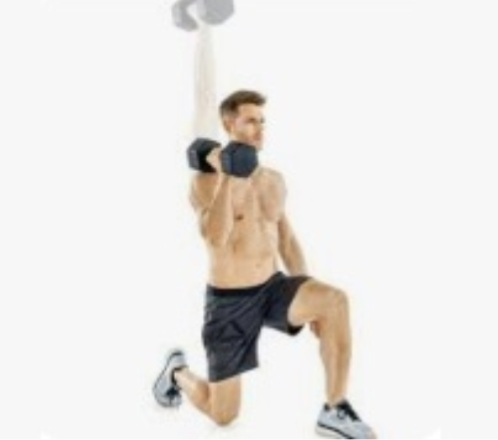
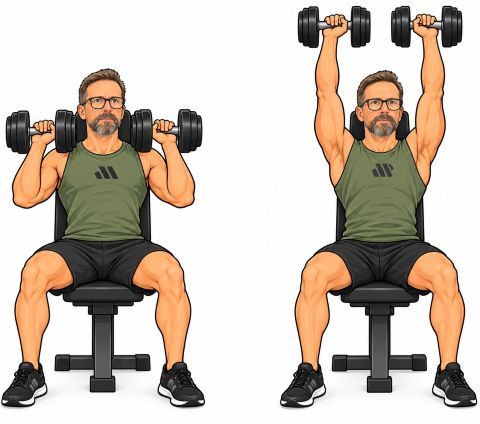
vGPT 1.3.0 add exercise 18 and refresh photos

diff --git a/app.js b/app.js
@@ -5,7 +5,17 @@
 // ---------------------------------------------------------------
 // 0. WERSJA APLIKACJI
 // ---------------------------------------------------------------
-const APP_VERSION = 'vGPT_1.2.1';
+const APP_VERSION = 'vGPT_1.3.0';
+
+// Wersjonowane wyłącznie grafiki podmienione w tej wersji. Dzięki temu PWA
+// pobiera je pod nowym adresem, nawet gdy poprzedni plik był już w cache.
+const VERSIONED_EXERCISE_IMAGE_IDS = new Set([8, 11, 14, 18]);
+
+function getExerciseImageSource(exercise) {
+  const source = exercise?.img || '';
+  if (!source || !VERSIONED_EXERCISE_IMAGE_IDS.has(exercise.id)) return source;
+  return `${source}${source.includes('?') ? '&' : '?'}v=${APP_VERSION}`;
+}
 
 // Lista rzeczy do spakowania
 const PACK_ITEMS = [
@@ -200,7 +210,7 @@ function defaultExercises() {
     { id:14, name:'Ćwiczenie 14',  sets:3, reps:'12',       weight:9     },
     { id:15, name:'Ćwiczenie 15',  sets:2, reps:'8-10',     weight:null  }
   ];
-  return defs.map(e => ({
+  return [...defs.map(e => ({
     id: e.id,
     name: e.name,
     img: `Photos/${e.id}.jpg`,
@@ -212,7 +222,48 @@ function defaultExercises() {
     restTimer: e.id !== 1,
     restSeconds: 60,
     isTime: !!e.isTime
-  }));
+  })), createExercise18()];
+}
+
+function createExercise18() {
+  return {
+    id: 18,
+    name: 'Ćwiczenie 18',
+    img: 'Photos/18.jpg',
+    helperImages: [],
+    sets: 3,
+    reps: '15',
+    weight: null,
+    active: true,
+    restTimer: true,
+    restSeconds: 60,
+    isTime: false
+  };
+}
+
+// Jednorazowo zastępuje porzucone, ręcznie utworzone ćwiczenie 18
+// właściwą definicją z obrazem. Pozostałe ćwiczenia oraz ich kolejność
+// pozostają bez zmian.
+const EXERCISE_18_MIGRATION_VERSION = 'vGPT_1.3.0';
+
+function migrateExercise18(stateToMigrate) {
+  if (!Array.isArray(stateToMigrate.exercises)) return stateToMigrate;
+  if (stateToMigrate.exercise18Migration === EXERCISE_18_MIGRATION_VERSION) {
+    return stateToMigrate;
+  }
+
+  const existingIndex = stateToMigrate.exercises.findIndex(ex => ex.id === 18);
+  if (existingIndex === -1) {
+    stateToMigrate.exercises.push(createExercise18());
+  } else {
+    stateToMigrate.exercises.splice(existingIndex, 1, createExercise18());
+    if (stateToMigrate.current?.sets) delete stateToMigrate.current.sets[18];
+    if (Array.isArray(stateToMigrate.current?.completedExercises)) {
+      stateToMigrate.current.completedExercises = stateToMigrate.current.completedExercises.filter(id => id !== 18);
+    }
+  }
+  stateToMigrate.exercise18Migration = EXERCISE_18_MIGRATION_VERSION;
+  return stateToMigrate;
 }
 
 // Historia z domyślnymi danymi.
@@ -293,7 +344,15 @@ function loadState() {
             if (typeof ex.weight === 'number') ex.weight = `${ex.weight} kg`;
           });
         }
-        return s;
+        const needsExercise18Migration =
+          s.exercise18Migration !== EXERCISE_18_MIGRATION_VERSION &&
+          Array.isArray(s.exercises);
+        const migratedState = migrateExercise18(s);
+        // Zapis od razu sprawia, że porzucone ID 18 jest zastępowane tylko raz.
+        if (needsExercise18Migration) {
+          try { localStorage.setItem(STORAGE_KEY, JSON.stringify(migratedState)); } catch (e) { /* quota? */ }
+        }
+        return migratedState;
       }
     }
     // Migracja ze starej wersji v1 (gdyby ktoś miał)
@@ -302,13 +361,13 @@ function loadState() {
       try {
         const old = JSON.parse(oldRaw);
         if (old && old.history) {
-          return {
+          return migrateExercise18({
             version: STORAGE_VERSION,
             exercises: old.exercises || defaultExercises(),
             history: (old.history || []).map(h => ({ ...h, exported: false })),
             current: old.current || null,
             manualRestSeconds: REST_SECONDS
-          };
+          });
         }
       } catch (e) { /* ignore */ }
     }
@@ -321,6 +380,7 @@ function loadState() {
     packingDate: null,  // ISO date — kiedy ostatnio potwierdzono pakowanie
     goalDays: 3.5,      // cel: co ile dni trening (próg dla kolorów)
     manualRestSeconds: REST_SECONDS,
+    exercise18Migration: EXERCISE_18_MIGRATION_VERSION,
   };
 }
 
@@ -820,7 +880,7 @@ function renderExerciseList() {
 
     li.innerHTML = `
       <div class="exercise-item__thumb">
-        <img src="${ex.img}" alt="" onerror="this.replaceWith(Object.assign(document.createElement('span'),{textContent:'${ex.id}'}))">
+        <img src="${getExerciseImageSource(ex)}" alt="" onerror="this.replaceWith(Object.assign(document.createElement('span'),{textContent:'${ex.id}'}))">
       </div>
       <div class="exercise-item__name">${ex.name}</div>
       <div class="exercise-item__sets">
@@ -875,7 +935,9 @@ function renderExerciseScreen(exId) {
 
   const img = document.getElementById('exerciseImage');
   const fallback = document.getElementById('exerciseImageFallback');
-  img.src = ex.img;
+  const imageWrap = img.closest('.exercise-image-wrap');
+  imageWrap.classList.toggle('exercise-image-wrap--portrait-11', ex.id === 11);
+  img.src = getExerciseImageSource(ex);
   img.classList.remove('hidden');
   fallback.textContent = '';
   img.onerror = () => {
@@ -2430,7 +2492,7 @@ window.addEventListener('appinstalled', () => {
 
 if ('serviceWorker' in navigator) {
   window.addEventListener('load', () => {
-    navigator.serviceWorker.register('sw.js').catch(err => {
+    navigator.serviceWorker.register(`sw.js?v=${APP_VERSION}`).catch(err => {
       console.warn('[SW] rejestracja nieudana:', err);
     });
   });

diff --git a/index.html b/index.html
@@ -13,7 +13,7 @@
   <link rel="preconnect" href="https://fonts.googleapis.com" />
   <link rel="preconnect" href="https://fonts.gstatic.com" crossorigin />
   <link rel="stylesheet" href="https://fonts.googleapis.com/css2?family=Rajdhani:wght@400;500;600;700&family=Orbitron:wght@500;700;900&display=swap" />
-  <link rel="stylesheet" href="styles.css?v=vGPT_1.2.1" />
+  <link rel="stylesheet" href="styles.css?v=vGPT_1.3.0" />
   <title>SIŁKA 3</title>
 </head>
 <body>
@@ -334,6 +334,6 @@
 
   </div>
 
-  <script src="app.js?v=vGPT_1.2.1"></script>
+  <script src="app.js?v=vGPT_1.3.0"></script>
 </body>
 </html>

diff --git a/sw.js b/sw.js
@@ -1,5 +1,5 @@
 // SIŁKA 3 — Service Worker
-const CACHE_NAME = 'silka3-vGPT_1.2.1';
+const CACHE_NAME = 'silka3-vGPT_1.3.0';
 const CORE_ASSETS = [
   './',
   './index.html',
@@ -10,6 +10,10 @@ const CORE_ASSETS = [
   './icon-512.png',
   './icon-maskable-512.png',
   './Photos/Bateria.png',
+  './Photos/8.jpg?v=vGPT_1.3.0',
+  './Photos/11.jpg?v=vGPT_1.3.0',
+  './Photos/14.jpg?v=vGPT_1.3.0',
+  './Photos/18.jpg?v=vGPT_1.3.0',
   'https://fonts.googleapis.com/css2?family=Rajdhani:wght@400;500;600;700&family=Orbitron:wght@500;700;900&display=swap'
 ];
 

diff --git a/styles.css b/styles.css
@@ -1155,6 +1155,11 @@ input { font-family: inherit; }
   object-fit: contain;
   display: block;
 }
+.exercise-image-wrap--portrait-11 {
+  align-self: start;
+  min-height: 0;
+  aspect-ratio: 480 / 1078;
+}
 .exercise-image.hidden { display: none; }
 .exercise-image-fallback {
   font-family: 'Orbitron', sans-serif;
